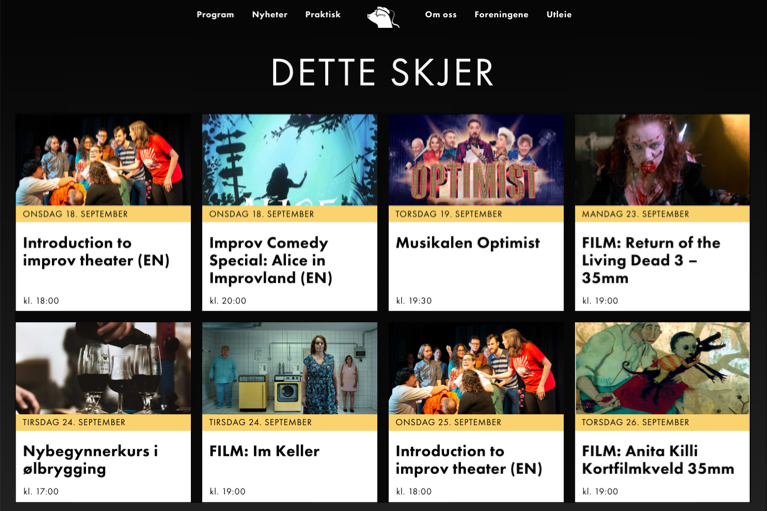
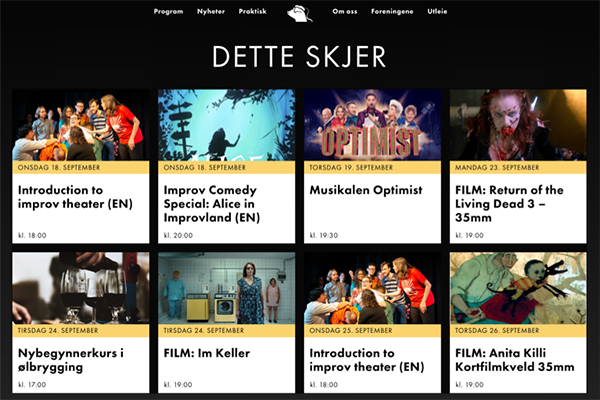
lazyload images and optimize files for web

diff --git a/src/components/Project.vue b/src/components/Project.vue
@@ -5,11 +5,11 @@
       <p v-html="description"></p>
       <p v-if="link"><a :href="`${link}`" target="_blank">Besøk nettsiden</a></p>
     </div>
-    <div v-if="largeImages" class="project-gallery large">
-      <img v-for="(image, index) in largeImages" :key="`image-${index}`" :src="image" :alt="title" />
+    <div v-if="largeImagesComputed" class="project-gallery large">
+      <img v-for="(image, index) in largeImagesComputed" :key="`image-${index}`" :src="image" :alt="title" />
     </div>
-    <div v-if="images" class="project-gallery">
-      <img v-for="(image, index) in images" :key="`image-${index}`" :src="image" :alt="title" />
+    <div v-if="imagesComputed" class="project-gallery">
+      <img v-for="(image, index) in imagesComputed" :key="`image-${index}`" :src="image" :alt="title" />
     </div>
   </article>
 </template>
@@ -27,6 +27,28 @@ export default {
     link: String,
     anchor: String,
     id: String,
+  },
+  data: () => ({ observer: null, intersected: false }),
+  computed: {
+    largeImagesComputed() {
+      return this.intersected ? this.largeImages : '';
+    },
+    imagesComputed() {
+      return this.intersected ? this.images : '';
+    }
+  },
+  mounted() {
+    this.observer = new IntersectionObserver(projects => {
+      const image = projects[0];
+      if (image.isIntersecting) {
+        this.intersected = true;
+      }
+    });
+
+    this.observer.observe(this.$el);
+  },
+  destroyed() {
+    this.observer.disconnect();
   }
 }
 </script>

diff --git a/src/views/projects/All.vue b/src/views/projects/All.vue
@@ -27,6 +27,15 @@ export default {
     return {
       projects
     }
+  },
+  computed: {
+    visibleProjects: function() {
+      if (!this.$route.params.current) {
+        return this.projects
+      } else {
+        return this.projects.filter(project => project.id === this.$route.params.current);
+      }
+    }
   }
 }
 </script>

diff --git a/src/components/Latest.vue b/src/components/Latest.vue
@@ -11,6 +11,7 @@
         :link="project.link"
         :type="project.type"
         :anchor="project.anchor"
+        :id="project.id"
         :style="{ animationDelay: index/12 + 's' }"
       />
     </div>
